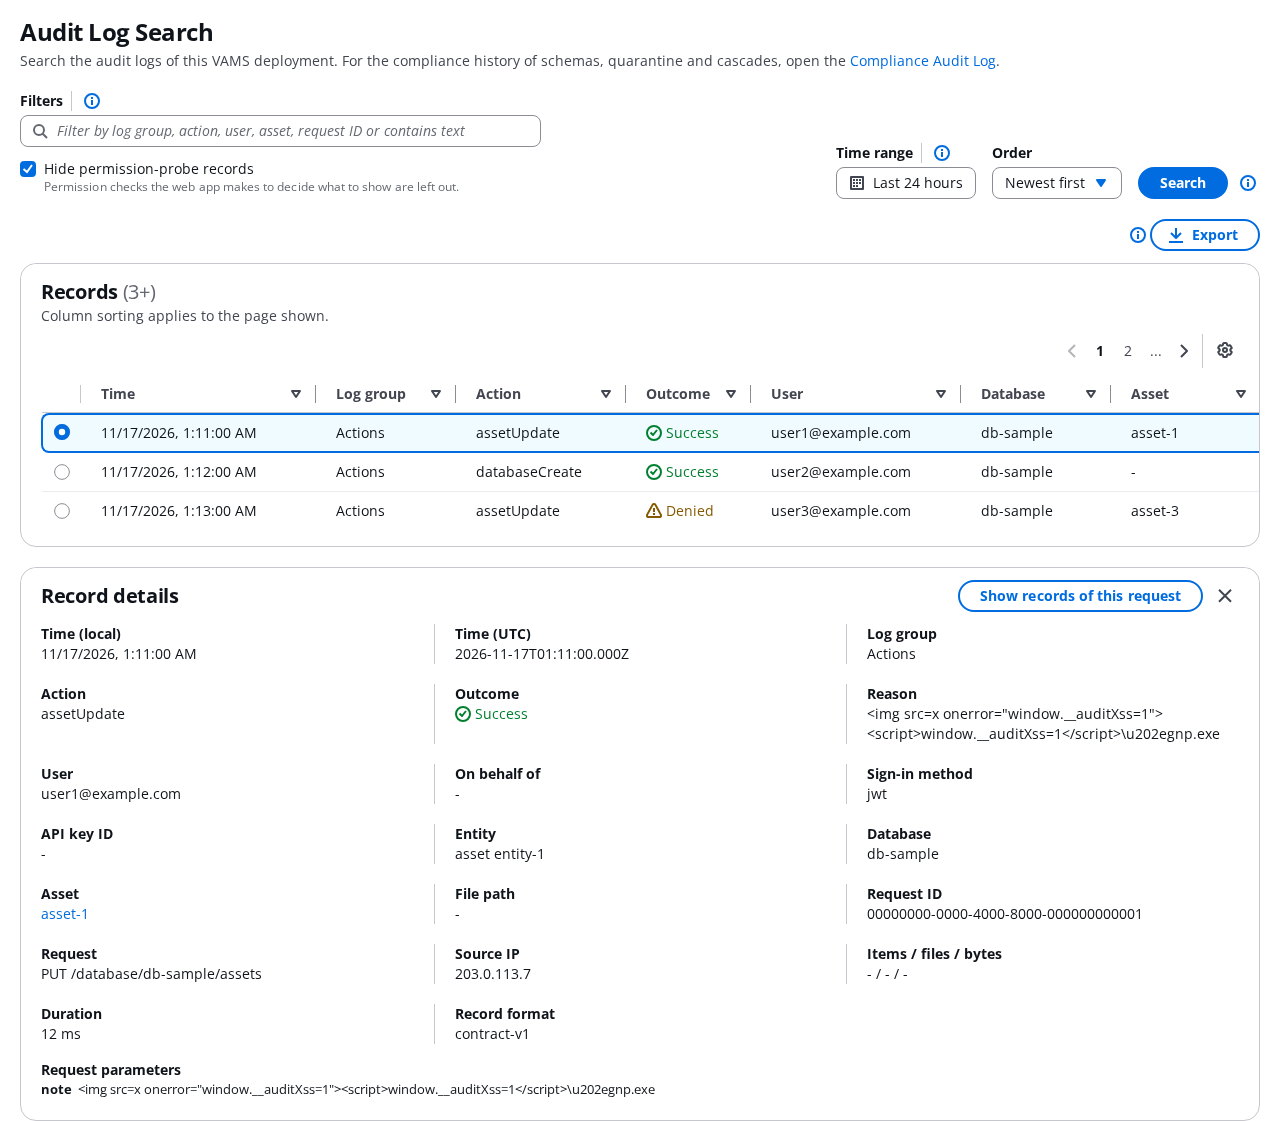
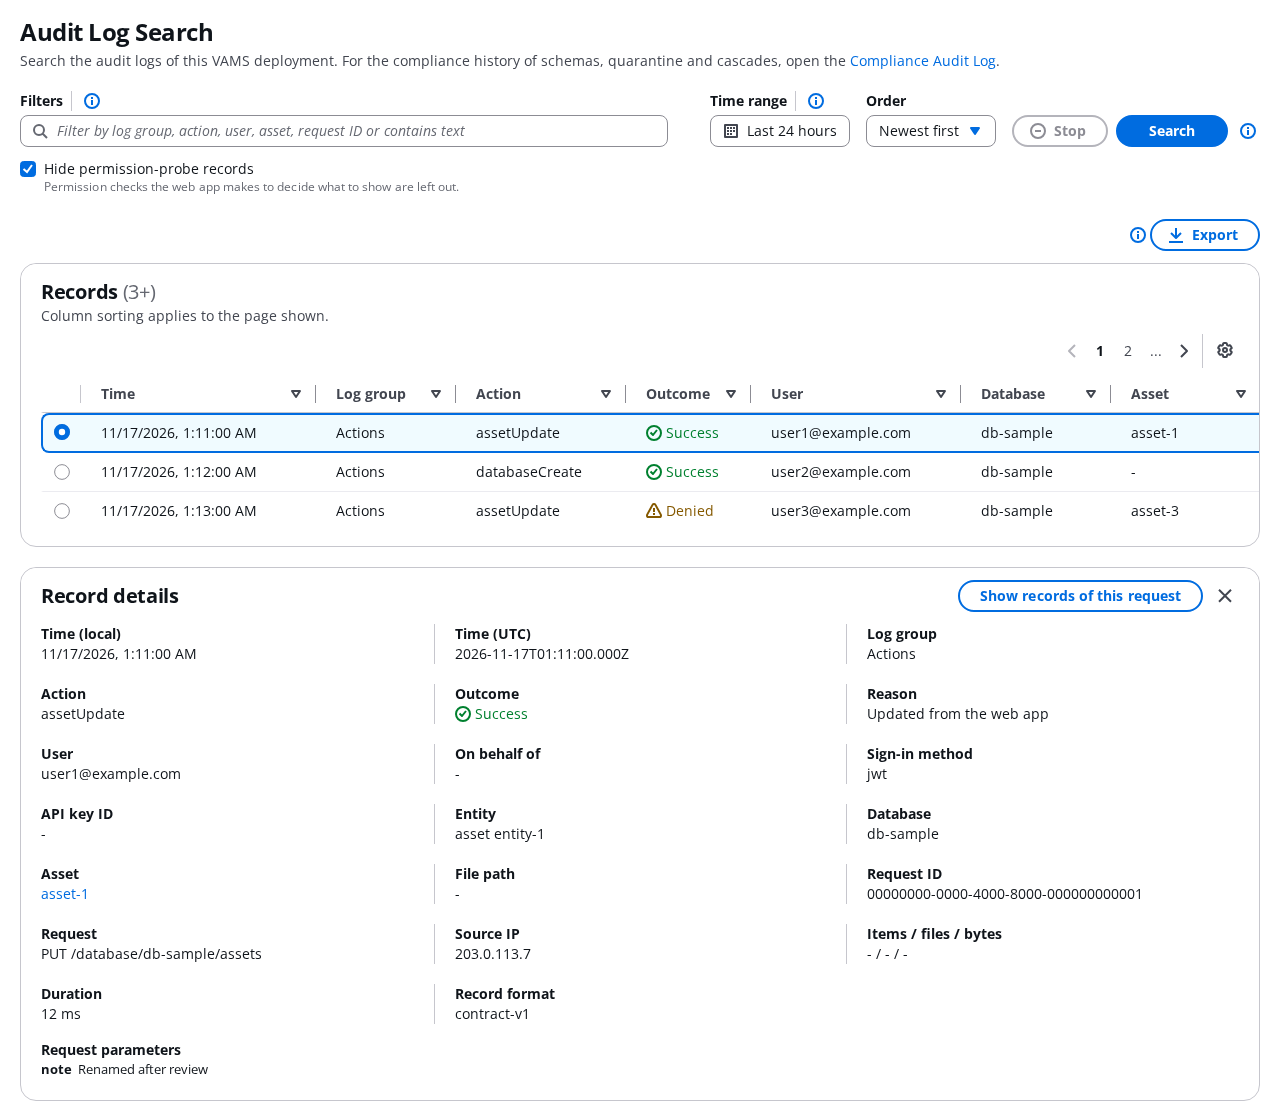
Document the audit search toast and inline validation decisions (#1535)
Update the user guide, web/CLAUDE.md and its steering mirror, and retake the
two user guide screenshots with plain fixture text.

diff --git a/documentation/docusaurus-site/docs/user-guide/audit-logs.md b/documentation/docusaurus-site/docs/user-guide/audit-logs.md
@@ -45,7 +45,7 @@ A record becomes searchable about a minute after the action it describes, becaus
 
 ## While a search runs
 
-A search reads CloudWatch Logs and can take several seconds. The page waits on the server and shows how many records it has scanned so far, beside the **Search** button. Choose the info icons beside **Filters**, **Time range** and **Search** for the rules of filters, the time range and the search. It shows no count of matches, because the records are checked again on the server when the search finishes. Records appear when the search finishes. Choose **Stop** to end the search early (also right after you chose Search: the search is cancelled as soon as the service has started it); a stopped search shows no records, so narrow the time range or the filters and search again. A search that passes the deployment's time limit stops with a message that asks you to narrow the range or the filters.
+A search reads CloudWatch Logs and can take several seconds. The page waits on the server and shows how many records it has scanned so far, on a line under the **Search** button (the buttons and fields do not move when a search starts). Choose the info icons beside **Filters**, **Time range** and **Search** for the rules of filters, the time range and the search. It shows no count of matches, because the records are checked again on the server when the search finishes. Records appear when the search finishes. Choose **Stop** to end the search early (also right after you chose Search: the search is cancelled as soon as the service has started it); a stopped search shows no records and the table says the search was stopped, so narrow the time range or the filters and search again. A search that passes the deployment's time limit stops with a message that asks you to narrow the range or the filters.
 
 When the service is busy or you already run the most searches allowed at once, the page says so. Wait a moment and search again.
 
@@ -53,7 +53,11 @@ When the service is busy or you already run the most searches allowed at once, t
 
 The table shows one row per record, on one line (long values are cut and shown in full when you point at them or open the record; the preferences button turns on wrapped lines): time (your local time), log group, action, outcome, user, database, asset, entity and a one-line summary. **Order** chooses newest or oldest first for the whole result, by the exact time of each record. Time is shown in one format for every record, whichever format it was written in. Column headers sort the page shown only. Use the preferences button to choose the columns.
 
-Warnings and errors appear as notifications in the top right corner of the page. Choose the close button to dismiss one. The warnings about an incomplete or partial result stay until you dismiss them; errors close after a few seconds. The notes below are information: choose the info icon beside **Export** to read them.
+Warnings and errors appear as notifications in the top right corner of the page. Choose the close button to dismiss one. The warnings about an incomplete or partial result stay until you dismiss them, you start another search, the results are cleared (for example by opening a link with other filters) or you leave the page; they close by themselves after 10 minutes at the latest. Errors close after a few seconds.
+
+A problem with a field you filled in (a **contains** term that is too short, a log group you may not search) is not a notification. It is shown under the filter, **Search** stays disabled until you fix it, and it does not disappear on its own, so you see what to correct.
+
+The notes below are information: choose the info icon beside **Export** to read them.
 
 The notifications and notes explain what the result may not show:
 

diff --git a/.kiro/steering/WEB_FRONTEND.md b/.kiro/steering/WEB_FRONTEND.md
@@ -1841,6 +1841,6 @@ Core page at `#/auth/audit-log-search/` (Admin - Auth, no feature switch). The n
 -   **Query text is never sent.** The body holds named filters only; the server builds the query.
 -   **Record content is untrusted text.** Render it only as React text nodes through `visibleText` (control, bidi and zero-width characters shown as `\uXXXX`) or `AuditValueTree` (depth and node bounded). No HTML sink, no link from a record value except an asset link built from validated ids with `encodeURIComponent`. The API returns every record time as `2026-11-17T01:00:00.000Z` (UTC, one format for legacy and v1 records); an older server may still send `2026-11-17 01:00:00.000` (UTC, no zone), so read it with `auditTimeMs`, never `new Date(string)`.
 -   **Counts.** The page shows only what the API returns for the groups the caller may search. There is no count of rows the server removed on its recheck, and no "matched" figure (CloudWatch's raw match count would be that count): the progress text shows only records scanned. A stopped search shows no records (the API returns none), so `stop` reads no page. A link that brings other filters while results show drops the results and any running search (`reset`). The table shows one line per row (`OneLine` cells with a tooltip, column widths set, Wrap lines preference off by default).
--   **Notices.** Warnings and errors are toasts through `useToast()` (`features/orchestration/components/ToastProvider.tsx`), raised once per search (a ref set cleared when a new search starts); incomplete-result warnings use `duration: 0`. Information is an info icon (`AuditInfoPopover.tsx`: Cloudscape `Popover` with a `formAction="none"` icon button, because the icon sits inside the search form). Live progress and `Search stopped` are a `StatusIndicator` beside the Search button. The time range, order and Search sit right of the property filter (flex row, wraps below at narrow widths). Blocking states (no access, no groups) stay page content.
+-   **Notices.** Warnings and errors are toasts through `useToast()` (`features/orchestration/components/ToastProvider.tsx`), raised once per search (a ref set cleared when a new search starts); incomplete-result warnings use a 10-minute backstop (`WARNING_TOAST_BACKSTOP_MS`) and the page dismisses them (by id) when a new search starts, the results are cleared (phase `idle`) and on unmount, since the toast stack is app-wide. Field validation (contains too short, group not allowed) stays an inline `FormField` error with Search disabled, deliberately not a toast: a toast would vanish while the problem stays. Control row: aligned to the filter input row (label row to label row), Stop is always present (disabled when idle) and Search has a fixed minimum width so the row never changes width when a search starts; the status sits on its own line (`width:0; min-width:100%`) under the controls inside a live region that exists before its text. A Log group token reads as the group label through the property's `format` operator. Information is an info icon (`AuditInfoPopover.tsx`: Cloudscape `Popover` with a `formAction="none"` icon button, because the icon sits inside the search form). Live progress and `Search stopped` are a `StatusIndicator` beside the Search button. The time range, order and Search sit right of the property filter (flex row, wraps below at narrow widths). Blocking states (no access, no groups) stay page content.
 -   **Export** joins the server's chunks (`csv`, `ndjson`) and downloads the file; the page rewrites no cell.
 -   **Tests.** Jest: `auditLogs/auditSearch.model.test.ts`, `pages/auth/AuditLogSearch.test.tsx`; e2e: `e2e/auth.auditlogsearch.spec.ts` with the scripted API in `e2e/support/auditSearchMocks.ts`.

diff --git a/web/CLAUDE.md b/web/CLAUDE.md
@@ -1616,6 +1616,6 @@ Core page at `#/auth/audit-log-search/` (Admin - Auth, no feature switch). The n
 -   **Query text is never sent.** The body holds named filters only; the server builds the query.
 -   **Record content is untrusted text.** Render it only as React text nodes through `visibleText` (control, bidi and zero-width characters shown as `\uXXXX`) or `AuditValueTree` (depth and node bounded). No HTML sink, no link from a record value except an asset link built from validated ids with `encodeURIComponent`. The API returns every record time as `2026-11-17T01:00:00.000Z` (UTC, one format for legacy and v1 records); an older server may still send `2026-11-17 01:00:00.000` (UTC, no zone), so read it with `auditTimeMs`, never `new Date(string)`.
 -   **Counts.** The page shows only what the API returns for the groups the caller may search. There is no count of rows the server removed on its recheck, and no "matched" figure (CloudWatch's raw match count would be that count): the progress text shows only records scanned. A stopped search shows no records (the API returns none), so `stop` reads no page. A link that brings other filters while results show drops the results and any running search (`reset`). The table shows one line per row (`OneLine` cells with a tooltip, column widths set, Wrap lines preference off by default).
--   **Notices.** Warnings and errors are toasts through `useToast()` (`features/orchestration/components/ToastProvider.tsx`), raised once per search (a ref set cleared when a new search starts); incomplete-result warnings use `duration: 0`. Information is an info icon (`AuditInfoPopover.tsx`: Cloudscape `Popover` with a `formAction="none"` icon button, because the icon sits inside the search form). Live progress and `Search stopped` are a `StatusIndicator` beside the Search button. The time range, order and Search sit right of the property filter (flex row, wraps below at narrow widths). Blocking states (no access, no groups) stay page content.
+-   **Notices.** Warnings and errors are toasts through `useToast()` (`features/orchestration/components/ToastProvider.tsx`), raised once per search (a ref set cleared when a new search starts); incomplete-result warnings use a 10-minute backstop (`WARNING_TOAST_BACKSTOP_MS`) and the page dismisses them (by id) when a new search starts, the results are cleared (phase `idle`) and on unmount, since the toast stack is app-wide. Field validation (contains too short, group not allowed) stays an inline `FormField` error with Search disabled, deliberately not a toast: a toast would vanish while the problem stays. Control row: aligned to the filter input row (label row to label row), Stop is always present (disabled when idle) and Search has a fixed minimum width so the row never changes width when a search starts; the status sits on its own line (`width:0; min-width:100%`) under the controls inside a live region that exists before its text. A Log group token reads as the group label through the property's `format` operator. Information is an info icon (`AuditInfoPopover.tsx`: Cloudscape `Popover` with a `formAction="none"` icon button, because the icon sits inside the search form). Live progress and `Search stopped` are a `StatusIndicator` beside the Search button. The time range, order and Search sit right of the property filter (flex row, wraps below at narrow widths). Blocking states (no access, no groups) stay page content.
 -   **Export** joins the server's chunks (`csv`, `ndjson`) and downloads the file; the page rewrites no cell.
 -   **Tests.** Jest: `auditLogs/auditSearch.model.test.ts`, `pages/auth/AuditLogSearch.test.tsx`; e2e: `e2e/auth.auditlogsearch.spec.ts` with the scripted API in `e2e/support/auditSearchMocks.ts`.
